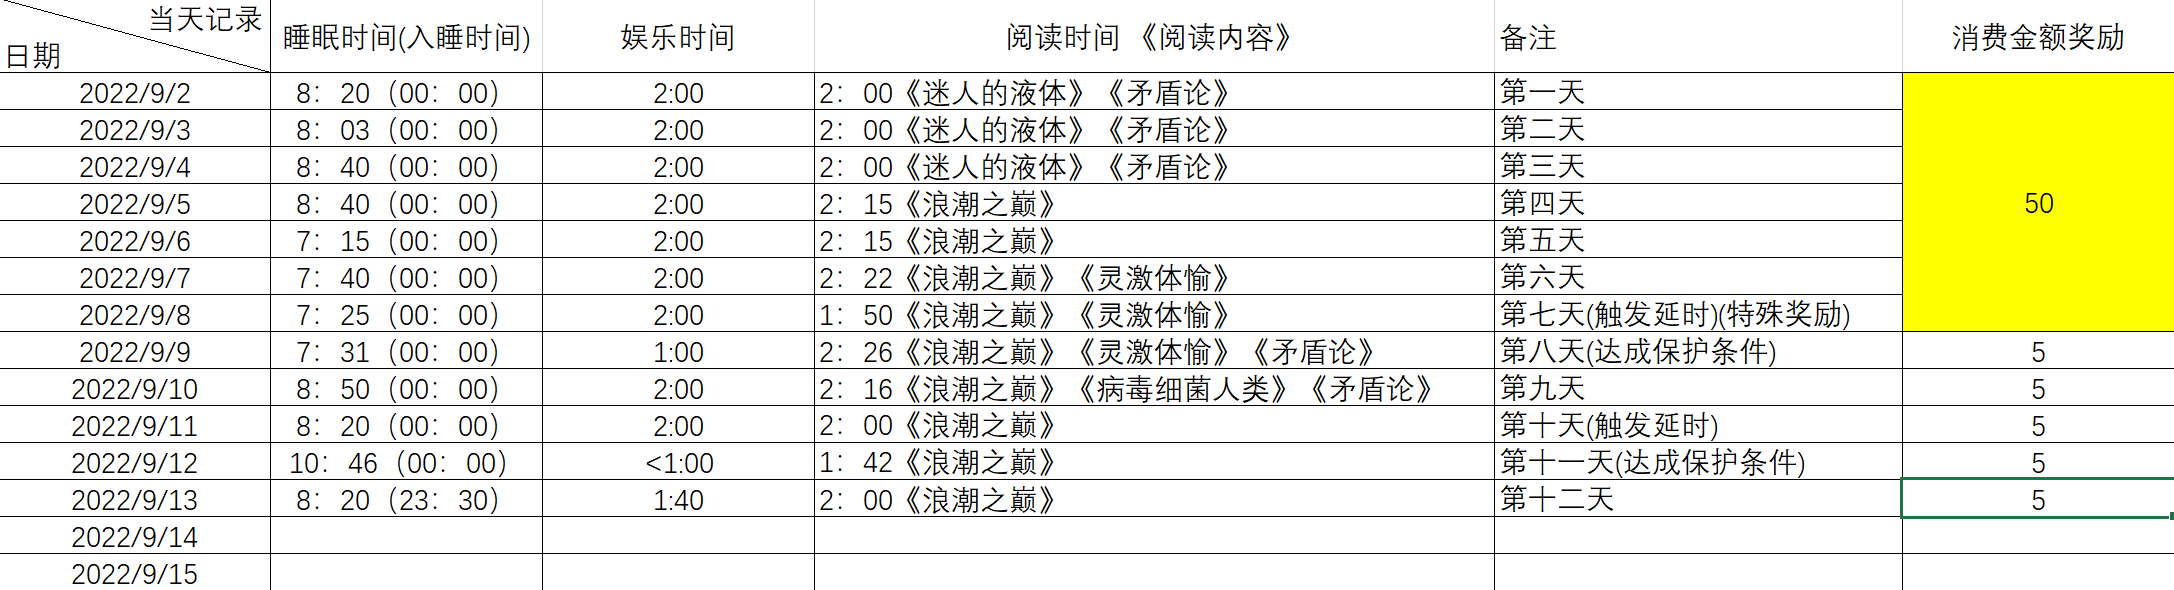
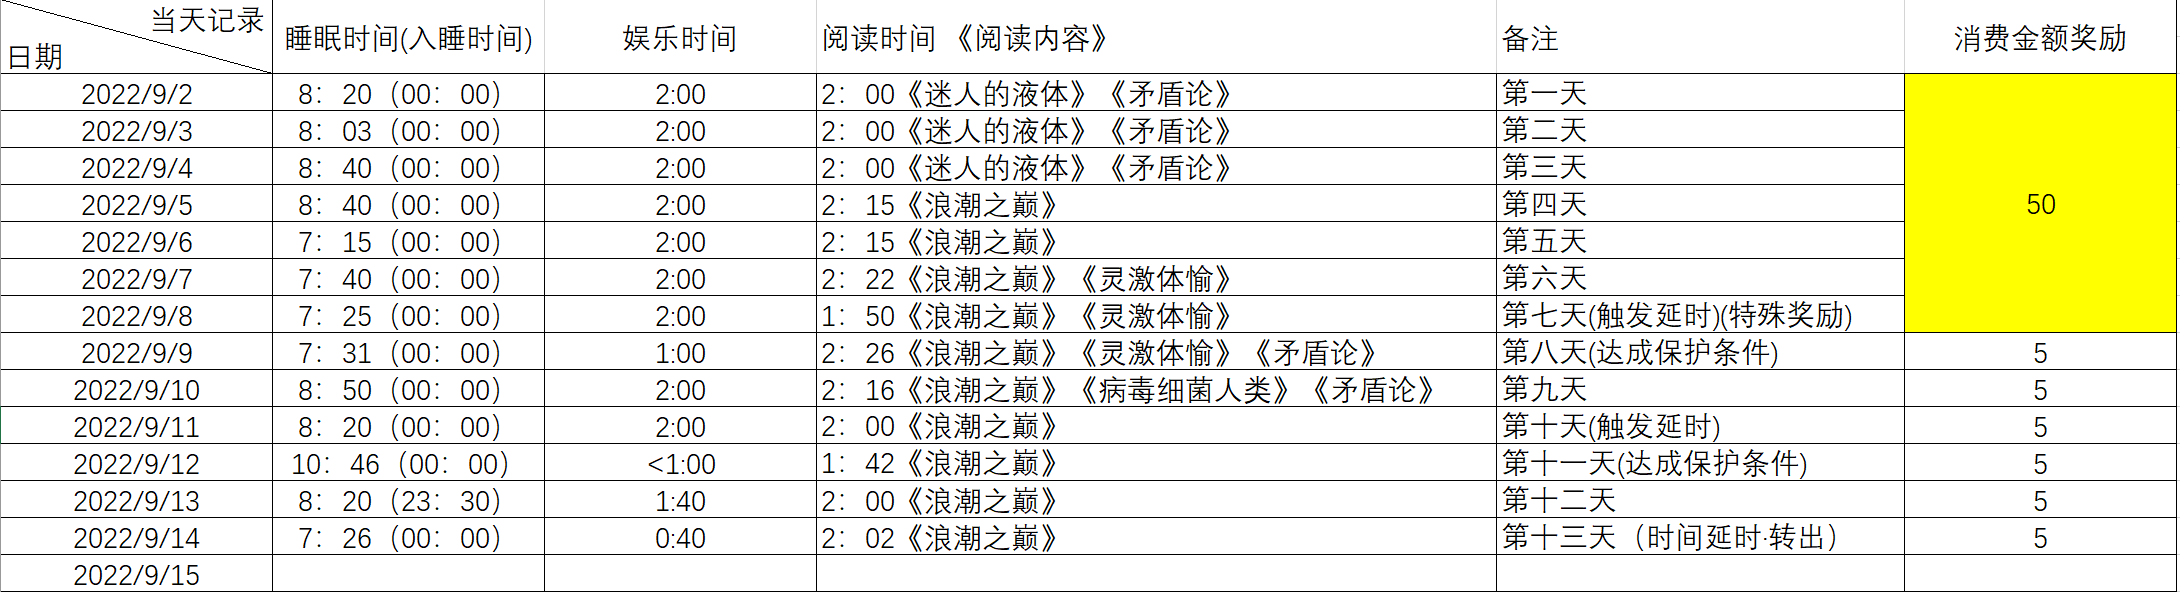
22/09/14

diff --git a/HYY/财产认证计划.md b/HYY/财产认证计划.md
@@ -114,6 +114,7 @@
 
 + 2022/9/2日 1.0版本更新
 + 2022/9/2日 1.1版本更新,增加了非恶性延时条款
++ 2022/9/14日 1.2版本更新,增加了时间转移条款
 
 
 
